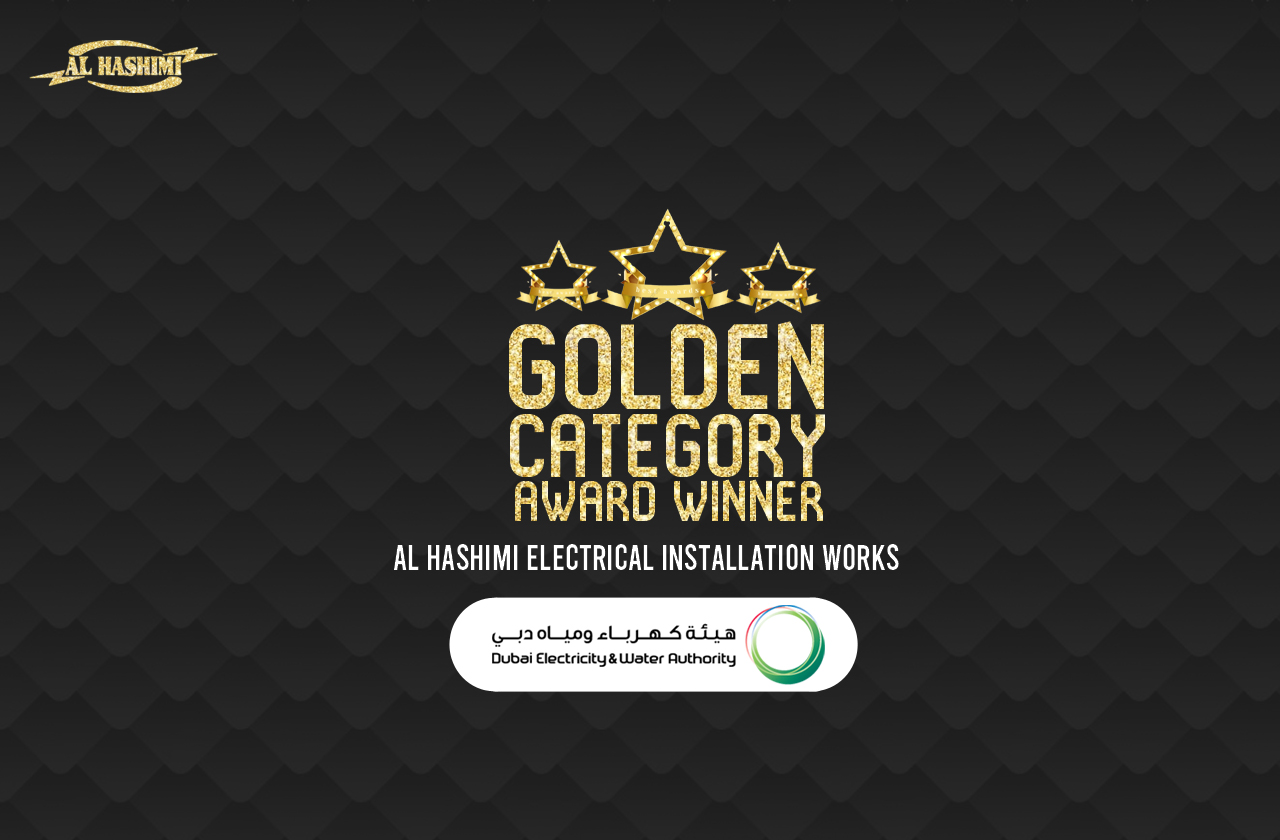
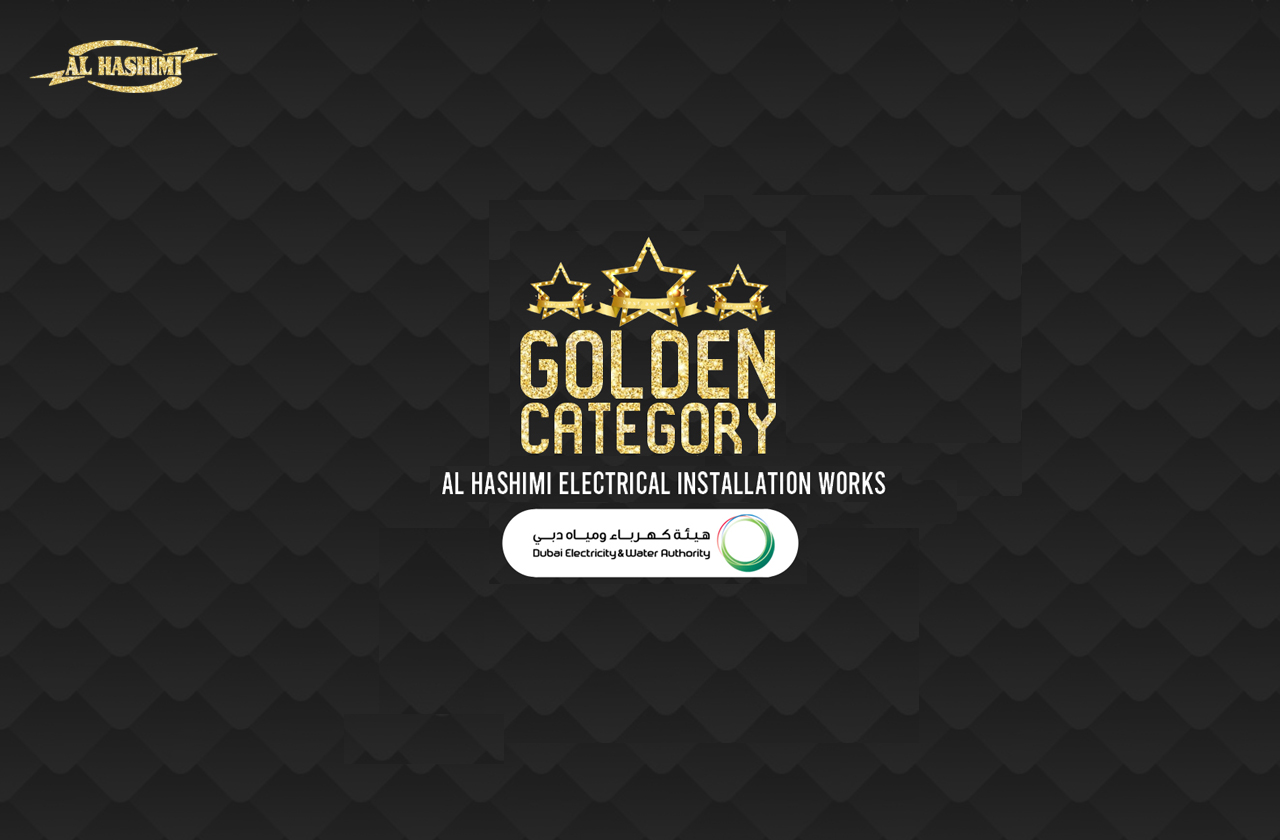
33

Changed region(s): [[0.3125, 0.2476, 0.7188, 0.8357]]

diff --git a/index.html b/index.html
@@ -70,7 +70,7 @@
                   <div class="col-lg-3">
                      <div class="site-logo">
                         <a href="index.html">
-                        <img src="assets\img\logo.png" alt="felona">
+                        <img src="assets\img\logo.png" alt="logo">
                         </a>
                      </div>
                      <!-- Responsive Menu Start -->
@@ -79,7 +79,7 @@
                   </div>
                   <div class="col-lg-9">
 				 
-                <p style="margin-top:35px;color:black;font-weight:500;font-size:90%;font-family:ubuntu;"><span>  AL HASHIMI </span>ELECTRICAL INSTALLATION WORKS</p></div>
+                <p style="margin-top:35px;color:black;font-weight:500;font-size:25px;font-family:ubuntu;"><span>  AL HASHIMI </span>ELECTRICAL INSTALLATION WORKS</p></div>
                   </div>
                </div>
             </div>
@@ -174,117 +174,7 @@
 			 
       </section>
       <!-- Slider Area End -->
-       
-       
-      <!-- About Area Start -->
-      <section class="felona-about-area section_70">
-         <div class="container">
-            <div class="row">
-               <div class="col-lg-6">
-                  <div class="about-left">
-                     <div class="about-heading">
-                       <div class="about-heading-left">
-                           <h2 class="text_bg">Since</h2><br> 
-						   <h2 class="text_bg">1988</h2>
-                        </div>
-                        <div class="about-heading-right">
-                           <p>32 Years Experience</p>
-                           <h3>Success Experiences</h3>
-                        </div>
-                     </div> <p>HE Saeed Mohammed Al Tayer, MD & CEO of Dubai Electricity and Water Authority (DEWA), has awarded “ Al Hashimi Electrical 
-Installation Works ”   in recognition of our efforts that helped DEWA achieve outstanding global achievements. </p><br>
-                     <p>Having a rich experience in the field backed by our vision, technology focused that include professional engineers, engineering technologies with exceptional field experience and trained technicians, forming part of a strong work force, we would be more than graceful and proud to be associated with your esteemed organization </p>
-					
-                      <div class="about-info">
-                        <div class="row">
-                           <div class="col-md-4">
-                              <div class="single-info">
-                                 <div class="info-icon">
-                                    <img src="assets\img\support.png" alt="support">
-                                 </div>
-                                 <div class="info-text">
-                                    <h4>On Time <span>Completion</span></h4>
-                                 </div>
-                              </div>
-                           </div>
-                           <div class="col-md-4">
-                              <div class="single-info">
-                                 <div class="info-icon">
-                                    <img src="assets\img\target.png" alt="target">
-                                 </div>
-                                 <div class="info-text">
-                                    <h4>32 Years of <span>Experience</span></h4>
-                                 </div>
-                              </div>
-                           </div>
-                           <div class="col-md-4">
-                              <div class="single-info">
-                                 <div class="info-icon">
-                                    <img src="assets\img\staff.png" alt="support">
-                                 </div>
-                                 <div class="info-text">
-                                    <h4>Experienced <span>Staff</span></h4>
-                                 </div>
-                              </div>
-                           </div>
-                        </div>
-                     </div>
-                  </div>
-               </div>
-               <div class="col-lg-5 offset-lg-1">
-                  <div class="about-right">
-                     <img src="assets\img\about-2.jpg" alt="about image" class="about-img">
-                     <img src="assets\img\about-1.jpg" alt="about image" class="about-img">
-                  </div>
-               </div>
-            </div>
-         </div>
-      </section>
-      <!-- About Area End -->
-       
-       
-      <!-- Counter Area Start -->
-      <section class="felona-counter-area section_100">
-         <div class="container">
-            <div class="row">
-               <div class="col-md-12">
-                  <div class="counter-box-heading">
-                     <h3>Committed to technical excellence and developing superior and cost effective solutions for our clients</h3>
-                     <h2>We completed 10000+ Projects</h2>
-                  </div>
-               </div>
-            </div>
-            <div class="row">
-               <div class="col-lg-3 col-sm-6">
-                  <div class="counter-box">
-                     <h3><span class="counter">10000</span>+</h3>
-                     <p>Projects Completed</p>
-                  </div>
-               </div>
-               <div class="col-lg-3 col-sm-6">
-                  <div class="counter-box">
-                     <h3><span class="counter">10</span>+ Years</h3>
-                     <p>Experienced Technicians</p>
-                  </div>
-               </div>
-               <div class="col-lg-3 col-sm-6">
-                  <div class="counter-box">
-                     <h3><span class="counter">3</span></h3>
-                     <p>Awards Won</p>
-                  </div>
-               </div>
-               <div class="col-lg-3 col-sm-6">
-                  <div class="counter-box">
-                     <h3><span class="counter">34</span></h3>
-                     <p>Projects Running</p>
-                  </div>
-               </div>
-            </div>
-         </div>
-      </section>
-      <!-- Counter Area End -->
-       
-       
+            
       <!-- Service Area Start -->
       <section class="felona-service-area section_70">
          <div class="container">
@@ -399,7 +289,114 @@ Installation Works ”   in recognition of our efforts that helped DEWA achieve 
       </section>
       <!-- Service Area End -->
        
+      
        
+       
+      <!-- Counter Area Start -->
+      <section class="felona-counter-area section_100">
+         <div class="container">
+            <div class="row">
+               <div class="col-md-12">
+                  <div class="counter-box-heading">
+                     <h3>Committed to technical excellence and developing superior and cost effective solutions for our clients</h3>
+                     <h2>We completed 10000+ Projects</h2>
+                  </div>
+               </div>
+            </div>
+            <div class="row">
+               <div class="col-lg-3 col-sm-6">
+                  <div class="counter-box">
+                     <h3><span class="counter">10000</span>+</h3>
+                     <p>Projects Completed</p>
+                  </div>
+               </div>
+               <div class="col-lg-3 col-sm-6">
+                  <div class="counter-box">
+                     <h3><span class="counter">10</span>+ Years</h3>
+                     <p>Experienced Technicians</p>
+                  </div>
+               </div>
+               <div class="col-lg-3 col-sm-6">
+                  <div class="counter-box">
+                     <h3><span class="counter">3</span></h3>
+                     <p>Awards Won</p>
+                  </div>
+               </div>
+               <div class="col-lg-3 col-sm-6">
+                  <div class="counter-box">
+                     <h3><span class="counter">34</span></h3>
+                     <p>Projects Running</p>
+                  </div>
+               </div>
+            </div>
+         </div>
+      </section>
+      <!-- Counter Area End -->
+       
+  
+       
+       <!-- About Area Start -->
+      <section class="felona-about-area section_70">
+         <div class="container">
+            <div class="row">
+               <div class="col-lg-6">
+                  <div class="about-left">
+                     <div class="about-heading">
+                  
+                        <div class="about-heading-right">
+                           <p>32 Years Experience</p>
+                           <h3>Success Experiences</h3>
+                        </div>
+                     </div> <p>HE Saeed Mohammed Al Tayer, MD & CEO of Dubai Electricity and Water Authority (DEWA), has awarded “ Al Hashimi Electrical 
+Installation Works ”   in recognition of our efforts that helped DEWA achieve outstanding global achievements. </p><br>
+                     <p>Having a rich experience in the field backed by our vision, technology focused that include professional engineers, engineering technologies with exceptional field experience and trained technicians, forming part of a strong work force, we would be more than graceful and proud to be associated with your esteemed organization </p>
+					
+                      <div class="about-info">
+                        <div class="row">
+                           <div class="col-md-4">
+                              <div class="single-info">
+                                 <div class="info-icon">
+                                    <img src="assets\img\support.png" alt="support">
+                                 </div>
+                                 <div class="info-text">
+                                    <h4>On Time <span>Completion</span></h4>
+                                 </div>
+                              </div>
+                           </div>
+                           <div class="col-md-4">
+                              <div class="single-info">
+                                 <div class="info-icon">
+                                    <img src="assets\img\target.png" alt="target">
+                                 </div>
+                                 <div class="info-text">
+                                    <h4>32 Years of <span>Experience</span></h4>
+                                 </div>
+                              </div>
+                           </div>
+                           <div class="col-md-4">
+                              <div class="single-info">
+                                 <div class="info-icon">
+                                    <img src="assets\img\staff.png" alt="support">
+                                 </div>
+                                 <div class="info-text">
+                                    <h4>Experienced <span>Staff</span></h4>
+                                 </div>
+                              </div>
+                           </div>
+                        </div>
+                     </div>
+                  </div>
+               </div>
+               <div class="col-lg-5 offset-lg-1">
+                  <div class="about-right">
+                     <img src="assets\img\about-2.jpg" alt="about image" class="about-img">
+                     <img src="assets\img\about-1.jpg" alt="about image" class="about-img">
+                  </div>
+               </div>
+            </div>
+         </div>
+      </section>
+      <!-- About Area End -->
          
       <!-- Request Area Start -->
       <section class="felona-request-area">

diff --git a/assets/css/style.css b/assets/css/style.css
@@ -1264,7 +1264,7 @@ ul.portfolio_filters li a.active:hover {
 	background-color: #eee;
 	background-position: center center;
 	background-size: cover;
-	height: 640px;
+	height: 430px;
 }
 
 .slider-content-holder {
@@ -1664,7 +1664,8 @@ ul.portfolio_filters li a.active:hover {
 
 .felona-request-area {
 	position: relative;
-	z-index: 1;
+	
+	z-index: 2;
 	background: #f8f9fa none repeat scroll 0 0
 }
 
@@ -1691,14 +1692,14 @@ ul.portfolio_filters li a.active:hover {
 	top: 0;
 	left: 0;
 	height: 100%;
-	width: 60%;
+	width: 40%;
 	background: url(../img/request-area_bg.jpg) no-repeat scroll 0 0/cover;
 	z-index: -1
 }
 
 .request-inner {
-	padding: 50px 0;
-	width: 55%;
+	padding: 10px 0;
+	width: 45%;
 }
 
 .request-left {
@@ -1732,17 +1733,17 @@ ul.portfolio_filters li a.active:hover {
 }
 
 .request-left form p input {
-	width: 100%;
+	width: 70%;
 	border: medium none;
 	background: #f8f9fa;
-	padding: 10px 15px;
+	padding: 20px 15px;
 	height: 50px;
 	font-size: 14px;
 	color: #242424
 }
 
 .request-left form p input {
-	width: 100%;
+	width: 70%;
 	border: medium none;
 	background: #f8f9fa;
 	padding: 10px 15px;
@@ -1752,8 +1753,8 @@ ul.portfolio_filters li a.active:hover {
 }
 
 .request-left form p textarea {
-	width: 100%;
-	min-height: 130px;
+	width: 60%;
+	min-height: 20px;
 	border: medium none;
 	background: #f8f9fa;
 	padding: 10px 15px;
@@ -1795,7 +1796,7 @@ ul.portfolio_filters li a.active:hover {
 	font-family: 'Poppins', sans-serif;
 	font-weight: 600;
 	text-transform: uppercase;
-	font-size: 14px;
+	font-size: 12px;
 	letter-spacing: 1px;
 	-webkit-transition: all 0.4s ease 0s;
 	transition: all 0.4s ease 0s

diff --git a/assets/css/responsive.css b/assets/css/responsive.css
@@ -663,7 +663,7 @@
 	}
 	.felona-responsive-menu {
 		display: block;
-		margin-top: 7px
+		margin-top: 9px
 	}
 	.felona-slider-area {
 		margin-top: 0
@@ -672,10 +672,10 @@
 		padding: 15px 0
 	}
 	.site-logo img {
-		width: 40%;
+		width: 60%;
 	}
 	.site-logo {
-		margin: 10px 0
+		margin: 30px 0
 	}
 	.felona-main-slide {
 		height: 300px
